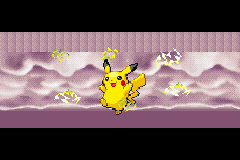
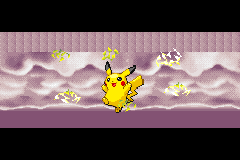
Opening plan B mock-up: PIKACHU's zoom capped at 1.25x as the storyboard says

Changed region(s): [[0.4083, 0.375, 0.6125, 0.7188]]

diff --git a/tools/make_intro_opening_official_mock.py b/tools/make_intro_opening_official_mock.py
@@ -247,7 +247,7 @@ def cut4(t):
     """THUNDERBOLT: the Thunder battle background, PIKACHU zooming in, the flock struck."""
     th = bg('graphics/battle_anims/backgrounds/thunder')
     view = tiled(th, 0, -t * 2)
-    sc = 1.0 + min(1.0, t / 60.0)
+    sc = 1.0 + min(0.25, t / 240.0)       # up to 1.25x: more blurs the pixels
     pk = affine(mon('pikachu'), sc)
     put(view, pk, W // 2 - pk.size[0] // 2, VIEW_H // 2 - pk.size[1] // 2 + 8)
     for k in range(6):
